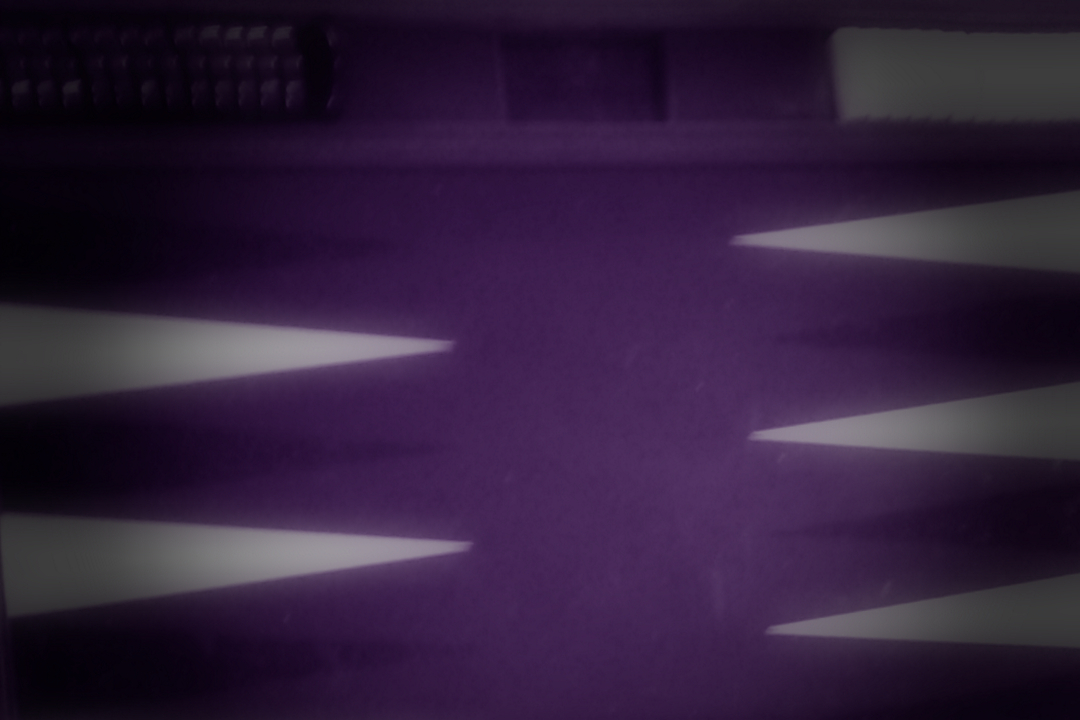
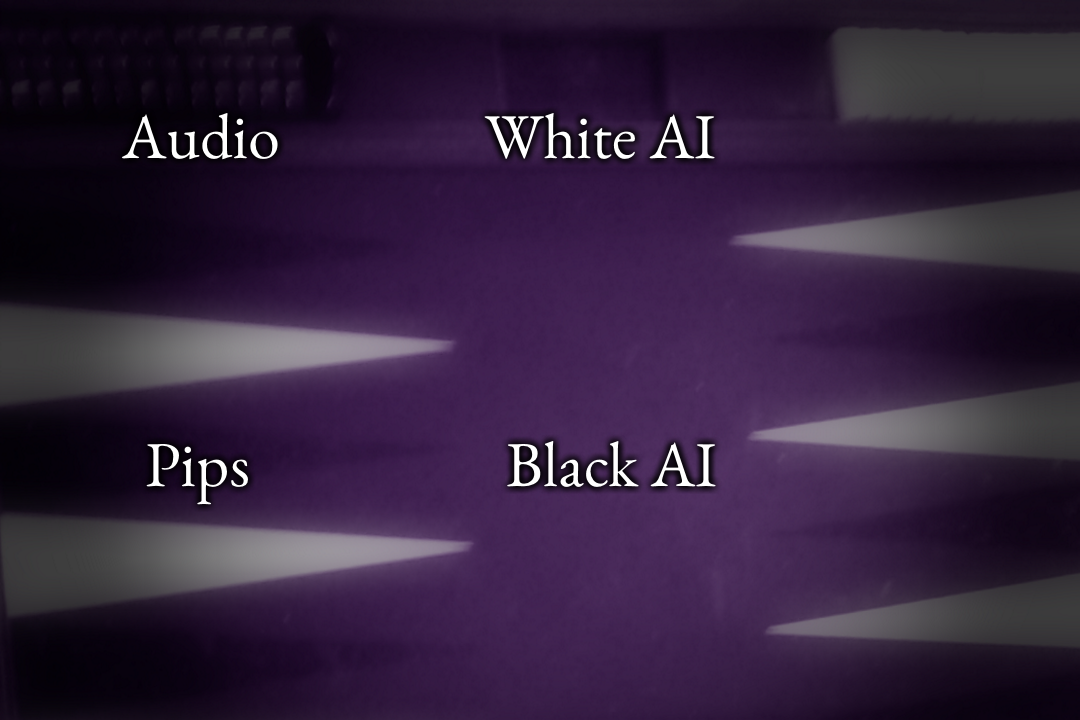
Added text to option screen. View will no longer loop when game is over.

diff --git a/Backgammon/AI-Networking/NetworkingInstance.cs b/Backgammon/AI-Networking/NetworkingInstance.cs
@@ -16,9 +16,9 @@ namespace Backgammon.AI_Networking
         private const int chunkSize = 4096 * 1024;
         private static DropboxClient dbx;
         private static string FileName, Content;
-        private static string localPath => AppDomain.CurrentDomain.BaseDirectory + FileName;
-        private static string remoteUploadPath => @"/uploads/" + FileName;
-        private static string remoteStringPath => @"/string/string.txt"; //+ FileName;
+        private static string LocalPath => AppDomain.CurrentDomain.BaseDirectory + FileName;
+        private static string RemoteUploadPath => @"/uploads/" + FileName;
+        private static string RemoteStringPath => @"/string/string.txt"; //+ FileName;
         private static List<string> folderContents;
 
         private static NetworkingInstance instance;
@@ -55,16 +55,16 @@ namespace Backgammon.AI_Networking
 
         public List<string> ListFiles()
         {
-            task = Task.Run(listFiles);
+            task = Task.Run(TaskListFiles);
             task.Wait();
             return folderContents;
         }
 
-        private static async Task listFiles()
+        private static async Task TaskListFiles()
         {
             folderContents.Clear();
             FileName = string.Empty;
-            var list = await dbx.Files.ListFolderAsync(remoteUploadPath);
+            var list = await dbx.Files.ListFolderAsync(RemoteUploadPath);
             foreach (var item in list.Entries.Where(i => i.IsFile))
                 folderContents.Add(item.Name);
         }
@@ -72,53 +72,53 @@ namespace Backgammon.AI_Networking
         public void Upload(string fileName)
         {
             FileName = fileName;
-            task = Task.Run(upload);
+            task = Task.Run(TaskUpload);
             task.Wait();
         }
 
-        private static async Task upload()
+        private static async Task TaskUpload()
         {
-            using (var fileStream = File.Open(localPath, FileMode.Open))
+            using (var fileStream = File.Open(LocalPath, FileMode.Open))
                 if (fileStream.Length <= chunkSize)
-                    await dbx.Files.UploadAsync(remoteUploadPath, body: fileStream);
+                    await dbx.Files.UploadAsync(RemoteUploadPath, body: fileStream);
         }
 
         public void Download(string fileName)
         {
             FileName = fileName;
-            task = Task.Run(download);
+            task = Task.Run(TaskDownload);
             task.Wait();
         }
 
-        private static async Task download()
+        private static async Task TaskDownload()
         {
-            using (var response = await dbx.Files.DownloadAsync(remoteUploadPath))
-                File.WriteAllText(localPath, await response.GetContentAsStringAsync());
+            using (var response = await dbx.Files.DownloadAsync(RemoteUploadPath))
+                File.WriteAllText(LocalPath, await response.GetContentAsStringAsync());
         }
 
         public void UploadString(string content)
         {
             Content = content;
-            task = Task.Run(uploadString);
+            task = Task.Run(TaskUploadString);
             task.Wait();
         }
 
-        private static async Task uploadString()
+        private static async Task TaskUploadString()
         {
             using (var mem = new MemoryStream(Encoding.UTF8.GetBytes(Content)))
-                await dbx.Files.UploadAsync(remoteStringPath, WriteMode.Overwrite.Instance, body: mem);
+                await dbx.Files.UploadAsync(RemoteStringPath, WriteMode.Overwrite.Instance, body: mem);
         }
 
         public string DownloadString()
         {
-            task = Task.Run(downloadString);
+            task = Task.Run(TaskDownloadString);
             task.Wait();
             return Content;
         }
 
-        private static async Task downloadString()
+        private static async Task TaskDownloadString()
         {
-            using (var response = await dbx.Files.DownloadAsync(remoteStringPath))
+            using (var response = await dbx.Files.DownloadAsync(RemoteStringPath))
                 Content = await response.GetContentAsStringAsync();
         }
 

diff --git a/Backgammon/Object/Board.cs b/Backgammon/Object/Board.cs
@@ -174,10 +174,21 @@ namespace Backgammon.Object
 
         internal int GetAmountOfCheckersAtPoint(int i)
         {
-            int value = Points[i].GetAmount();
-            if (value != 0 && Points[i].GetTopChecker().Color == Black)
-                return -value;
-            return value;
+            if (i == CheckerColor.Black.GetBar())
+                return BlackBar.GetAmount();
+            else if (i == White.GetBar())
+                return WhiteBar.GetAmount();
+            else if (i == White.BearOffPositionID())
+                return WhiteBearOff.GetAmount();
+            else if (i == Black.BearOffPositionID())
+                return BlackBearOff.GetAmount();
+            else
+            {
+                int value = Points[i].GetAmount();
+                if (value != 0 && Points[i].GetTopChecker().Color == Black)
+                    return -value;
+                return value;
+            }
         }
 
         internal CheckerColor GetColorAtPoint(int i)
@@ -189,11 +200,7 @@ namespace Backgammon.Object
             return Points[i].GetTopChecker().Color;
         }
 
-        internal bool GameOver() { return WhiteWon() || BlackWon(); }
-
-        internal bool WhiteWon() { return WhiteBearOff.GetAmount() == 15; }
-
-        internal bool BlackWon() { return BlackBearOff.GetAmount() == 15; }
+        internal bool GameOver() { return WhiteBearOff.GetAmount() == 15 || BlackBearOff.GetAmount() == 15; }
 
         private void CreatePoints()
         {

diff --git a/Backgammon/AI-Networking/AIInstance.cs b/Backgammon/AI-Networking/AIInstance.cs
@@ -27,7 +27,6 @@ namespace Backgammon.AI_Networking
 
         private AIInstance() { } // Make constructor private for singleton.
 
-
         internal void Move(BackgammonGame model, CheckerColor c)
         {
             Move(model, c, (c == CheckerColor.White) ? WhiteAI : BlackAI);
@@ -38,11 +37,6 @@ namespace Backgammon.AI_Networking
             if (ai == null)
                 ai = new NaiveAI(model, c);
             ai.MakeMove();
-        }
-
-        private void NintyPercentJunk()
-        {
-
         }
 
     }
